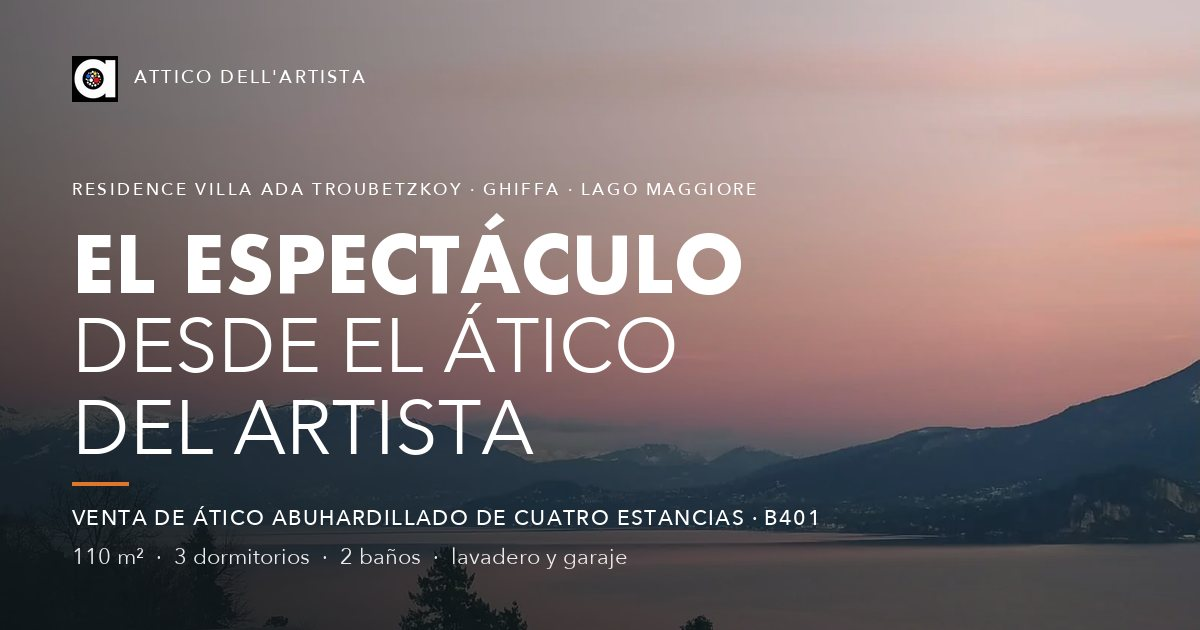
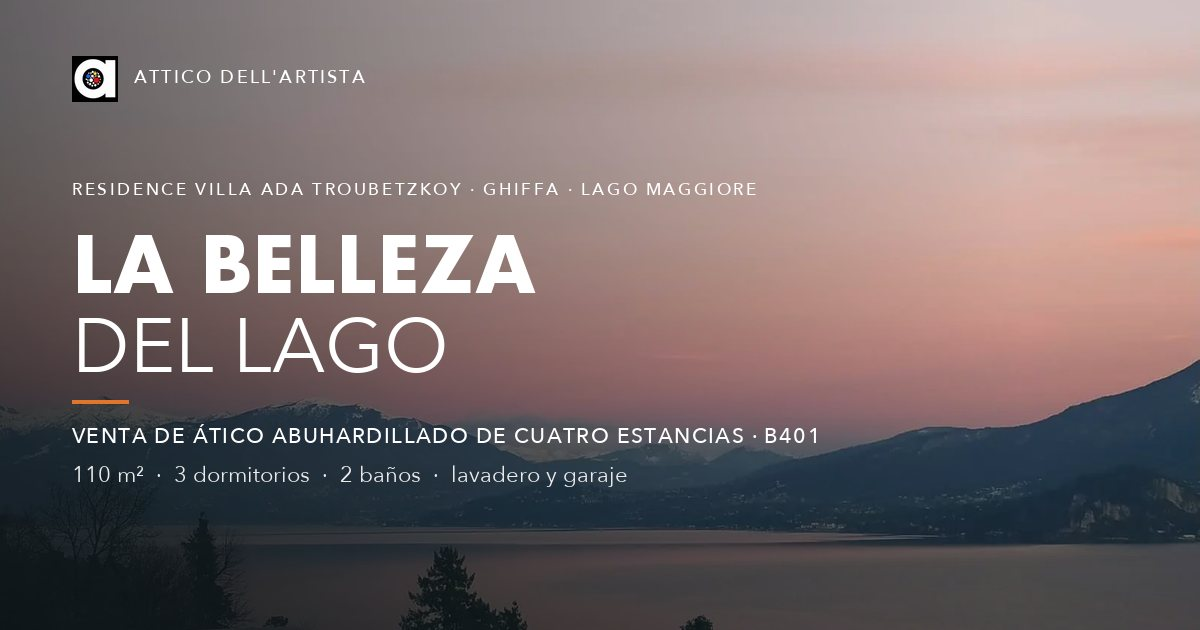
Correzioni testi: nuovo titolo, pianta numerata, ruolo Progettista, nota dell'architetto e testo su misura

diff --git a/de/index.html b/de/index.html
@@ -54,7 +54,7 @@
   <img class="hero-bg" src="../img/hero-960.webp" srcset="../img/hero-960.webp 960w, ../img/hero-1598.webp 1598w" sizes="100vw" width="1598" height="899" alt="Rosafarbene Morgendämmerung über dem Lago Maggiore, vom Penthouse aus gesehen" fetchpriority="high">
   <div class="hero-c wrap">
     <p class="kicker">Residence Villa Ada Troubetzkoy · Ghiffa · Lago Maggiore</p>
-    <h1><strong>Das Schauspiel</strong><br>vom Penthouse<br>der Künstlerin</h1>
+    <h1><strong>Die Schönheit</strong><br>des Sees</h1>
     <p class="hero-sub">Verkauf 4-Zimmer-Dachgeschosswohnung · B401<br><em>Ein Angebot von Anna Mazzola, Architektin</em></p>
     <div class="hero-cta"><a href="#contatti" class="btn">Private Besichtigung buchen</a><a href="#vista" class="btn btn-ghost">Das Haus entdecken</a></div>
   </div>
@@ -136,7 +136,7 @@
   </div>
 
   <div class="wrap split plan">
-    <figure><a href="../img/pianta-959.webp" class="lb" data-cap="Grundriss des Penthouse"><img src="../img/pianta-959.webp" srcset="../img/pianta-959.webp 959w" sizes="(max-width: 800px) 100vw, 60vw" width="959" height="720" alt="Grundriss des Penthouse" loading="lazy" decoding="async"></a></figure>
+    <figure><a href="../img/pianta-1088.webp" class="lb" data-cap="Grundriss des Penthouse"><img src="../img/pianta-640.webp" srcset="../img/pianta-640.webp 640w, ../img/pianta-1088.webp 1088w" sizes="(max-width: 800px) 100vw, 60vw" width="1088" height="680" alt="Grundriss des Penthouse" loading="lazy" decoding="async"></a></figure>
     <div>
       <h3 class="sub">Grundriss · 110 m²</h3>
       <ol class="legend"><li>Eingang, Wohnbereich, Küche</li><li>Wohnbereich mit Kamin und Essplatz</li><li>Schlafzimmer / Wohnzimmer</li><li>Schlafzimmer</li><li>Schlafzimmer</li><li>Office</li><li>Flur</li><li>Panorama-Loggia</li><li>Kleine Loggien</li></ol>
@@ -157,11 +157,11 @@
     <h2 class="h-lite">Die Architektin<br><strong>der Ideen</strong></h2>
     <p class="lead">Anna Mazzola · Architektin und Eigentümerin</p>
     <div class="trio roles">
-      <figure><img src="../img/anna-imprenditrice-615.webp" srcset="../img/anna-imprenditrice-615.webp 615w" sizes="(max-width: 700px) 100vw, 33vw" width="615" height="401" alt="Anna Mazzola · Unternehmerin" loading="lazy" decoding="async"><figcaption>Unternehmerin</figcaption></figure>
+      <figure><img src="../img/anna-imprenditrice-615.webp" srcset="../img/anna-imprenditrice-615.webp 615w" sizes="(max-width: 700px) 100vw, 33vw" width="615" height="401" alt="Anna Mazzola · Planerin" loading="lazy" decoding="async"><figcaption>Planerin</figcaption></figure>
       <figure><img src="../img/anna-direttrice-814.webp" srcset="../img/anna-direttrice-814.webp 814w" sizes="(max-width: 700px) 100vw, 33vw" width="814" height="448" alt="Anna Mazzola · Bauleiterin" loading="lazy" decoding="async"><figcaption>Bauleiterin</figcaption></figure>
       <figure><img src="../img/anna-artista-608.webp" srcset="../img/anna-artista-608.webp 608w" sizes="(max-width: 700px) 100vw, 33vw" width="608" height="396" alt="Anna Mazzola · Künstlerin" loading="lazy" decoding="async"><figcaption>Künstlerin</figcaption></figure>
     </div>
-    <blockquote>„Ich habe die Renovierungsarbeiten an diesem Gebäude persönlich betreut und geleitet und ihnen eine künstlerische Vision verliehen, die die Modernität von Sichtbeton mit der Weichheit lasierender Anstriche verbindet. Für die Fassaden gibt es eine innovative Methode: Eine professionelle Restauratorin begleitet das Gebäude über die Zeit und greift beim ersten Anzeichen von Feuchtigkeit oder Verschleiß ein. Ein unsichtbarer Wert – eine Garantie für Beständigkeit.“<cite>Anmerkung der Architektin</cite></blockquote>
+    <blockquote>„Ich habe die Renovierungsarbeiten an diesem Gebäude persönlich betreut und geleitet und dabei die ursprüngliche künstlerische Vision wieder aufgegriffen, die die Modernität von Sichtbeton mit der Weichheit lasierender Anstriche verbindet. Für die Sanierung der Fassaden habe ich eine ungewöhnliche, aber sehr wirksame Methode gewählt: <strong>die Restaurierung</strong>. Eine professionelle Restauratorin hat meisterhaft gearbeitet und wird das Gebäude von nun an begleiten und bei den ersten Anzeichen von Feuchtigkeit oder Verschleiß eingreifen. Ein unsichtbarer Wert – eine Garantie für Beständigkeit.“<cite>Anmerkung der Architektin</cite></blockquote>
   </div>
 </section>
 
@@ -169,7 +169,7 @@
   <div class="wrap">
     <p class="eyebrow">V · Nach Maß</p>
     <h2 class="h-lite">Der Raum<br><strong>nach Ihren Wünschen</strong></h2>
-    <p class="lead">Die Räume lassen sich je nach Bedarf neu interpretieren und neu gestalten – wie weiße Leinwände, bereit, zu neuem Leben zu erwachen, gemeinsam mit der Architektin, die dieses Haus und seine Umgebung seit mehr als zwanzig Jahren liebt und heute den Staffelstab weitergeben möchte, um neuen Träumen zu folgen.</p>
+    <p class="lead">Die Räume lassen sich je nach Bedarf neu interpretieren und neu gestalten – wie weiße Leinwände, bereit, gemeinsam mit der Architektin zu neuem Leben zu erwachen. Anna Mazzola hat dieses Haus und seine Umgebung immer geliebt und lebt dieses Gefühl heute weiter, indem sie den Staffelstab an jemanden übergibt, der jedes Detail zu schätzen weiß.</p>
     <p class="lead">Anna Mazzola verkauft nicht nur ein Domizil: Sie stellt dem Käufer ihr maßgeschneidertes Know-how zur Verfügung und begleitet ihn bei der vollständig individuellen Gestaltung der Räume.</p>
     <div class="trio styles">
       <figure><a href="../img/stile-classico-556.webp" class="lb" data-cap="Vorschlag: Klassischer Stil"><img src="../img/stile-classico-556.webp" srcset="../img/stile-classico-556.webp 556w" sizes="(max-width: 700px) 100vw, 33vw" width="556" height="268" alt="Vorschlag: Klassischer Stil" loading="lazy" decoding="async"></a><figcaption>Klassischer Stil</figcaption></figure><figure><a href="../img/stile-impero-555.webp" class="lb" data-cap="Vorschlag: Empire-Stil"><img src="../img/stile-impero-555.webp" srcset="../img/stile-impero-555.webp 555w" sizes="(max-width: 700px) 100vw, 33vw" width="555" height="268" alt="Vorschlag: Empire-Stil" loading="lazy" decoding="async"></a><figcaption>Empire-Stil</figcaption></figure><figure><a href="../img/stile-country-554.webp" class="lb" data-cap="Vorschlag: Landhausstil"><img src="../img/stile-country-554.webp" srcset="../img/stile-country-554.webp 554w" sizes="(max-width: 700px) 100vw, 33vw" width="554" height="268" alt="Vorschlag: Landhausstil" loading="lazy" decoding="async"></a><figcaption>Landhausstil</figcaption></figure>

diff --git a/fr/index.html b/fr/index.html
@@ -54,7 +54,7 @@
   <img class="hero-bg" src="../img/hero-960.webp" srcset="../img/hero-960.webp 960w, ../img/hero-1598.webp 1598w" sizes="100vw" width="1598" height="899" alt="Aube rose sur le lac Majeur vue depuis l&#x27;attique" fetchpriority="high">
   <div class="hero-c wrap">
     <p class="kicker">Residence Villa Ada Troubetzkoy · Ghiffa · lac Majeur</p>
-    <h1><strong>Le spectacle</strong><br>depuis l'attique<br>de l'artiste</h1>
+    <h1><strong>La beauté</strong><br>du lac</h1>
     <p class="hero-sub">À vendre · quatre pièces mansardé · B401<br><em>Une proposition signée Anna Mazzola, architecte</em></p>
     <div class="hero-cta"><a href="#contatti" class="btn">Réserver une visite privée</a><a href="#vista" class="btn btn-ghost">Découvrir la maison</a></div>
   </div>
@@ -136,7 +136,7 @@
   </div>
 
   <div class="wrap split plan">
-    <figure><a href="../img/pianta-959.webp" class="lb" data-cap="Plan de l&#x27;attique"><img src="../img/pianta-959.webp" srcset="../img/pianta-959.webp 959w" sizes="(max-width: 800px) 100vw, 60vw" width="959" height="720" alt="Plan de l&#x27;attique" loading="lazy" decoding="async"></a></figure>
+    <figure><a href="../img/pianta-1088.webp" class="lb" data-cap="Plan de l&#x27;attique"><img src="../img/pianta-640.webp" srcset="../img/pianta-640.webp 640w, ../img/pianta-1088.webp 1088w" sizes="(max-width: 800px) 100vw, 60vw" width="1088" height="680" alt="Plan de l&#x27;attique" loading="lazy" decoding="async"></a></figure>
     <div>
       <h3 class="sub">Plan · 110 m²</h3>
       <ol class="legend"><li>Entrée, séjour, cuisine</li><li>Séjour avec cheminée et salle à manger</li><li>Chambre / salon</li><li>Chambre</li><li>Chambre</li><li>Bureau</li><li>Couloir</li><li>Loggia panoramique</li><li>Petites loggias</li></ol>
@@ -157,11 +157,11 @@
     <h2 class="h-lite">L'architecte<br><strong>des idées</strong></h2>
     <p class="lead">Anna Mazzola · architecte et propriétaire</p>
     <div class="trio roles">
-      <figure><img src="../img/anna-imprenditrice-615.webp" srcset="../img/anna-imprenditrice-615.webp 615w" sizes="(max-width: 700px) 100vw, 33vw" width="615" height="401" alt="Anna Mazzola · Entrepreneure" loading="lazy" decoding="async"><figcaption>Entrepreneure</figcaption></figure>
+      <figure><img src="../img/anna-imprenditrice-615.webp" srcset="../img/anna-imprenditrice-615.webp 615w" sizes="(max-width: 700px) 100vw, 33vw" width="615" height="401" alt="Anna Mazzola · Conceptrice" loading="lazy" decoding="async"><figcaption>Conceptrice</figcaption></figure>
       <figure><img src="../img/anna-direttrice-814.webp" srcset="../img/anna-direttrice-814.webp 814w" sizes="(max-width: 700px) 100vw, 33vw" width="814" height="448" alt="Anna Mazzola · Maître d&#x27;œuvre" loading="lazy" decoding="async"><figcaption>Maître d'œuvre</figcaption></figure>
       <figure><img src="../img/anna-artista-608.webp" srcset="../img/anna-artista-608.webp 608w" sizes="(max-width: 700px) 100vw, 33vw" width="608" height="396" alt="Anna Mazzola · Artiste" loading="lazy" decoding="async"><figcaption>Artiste</figcaption></figure>
     </div>
-    <blockquote>« J'ai personnellement conçu et dirigé les travaux de rénovation de ce bâtiment, en lui insufflant une vision artistique qui allie la modernité du béton brut à la douceur d'une peinture à glacis. Pour les façades, une méthode innovante : une restauratrice professionnelle suit le bâtiment dans le temps et intervient au premier signe d'humidité ou d'usure. Une valeur invisible, gage de pérennité. »<cite>Note de l'architecte</cite></blockquote>
+    <blockquote>« J'ai personnellement suivi et dirigé les travaux de rénovation de ce bâtiment, en renouant avec la vision artistique d'origine qui allie la modernité du béton brut à la douceur d'une peinture à glacis. Pour la requalification des façades, j'ai choisi une méthode inhabituelle mais très efficace : <strong>la restauration</strong>. Une restauratrice professionnelle est intervenue avec maestria et suivra désormais le bâtiment dans le temps, en intervenant aux premiers signes d'humidité ou d'usure. Une valeur invisible, gage de pérennité. »<cite>Note de l'architecte</cite></blockquote>
   </div>
 </section>
 
@@ -169,7 +169,7 @@
   <div class="wrap">
     <p class="eyebrow">V · Sur mesure</p>
     <h2 class="h-lite">L'espace<br><strong>personnalisable</strong></h2>
-    <p class="lead">Les espaces peuvent être réinterprétés et repensés selon vos besoins, telles des toiles vierges prêtes à prendre une nouvelle vie aux côtés de l'architecte qui aime cette maison et son cadre depuis plus de vingt ans, et qui souhaite aujourd'hui passer le relais pour poursuivre de nouveaux rêves.</p>
+    <p class="lead">Les espaces peuvent être réinterprétés et repensés selon vos besoins, telles des toiles vierges prêtes à prendre une nouvelle vie aux côtés de l'architecte. Anna Mazzola a toujours aimé cette maison et son cadre, et aujourd'hui elle prolonge ce sentiment en passant le relais à qui saura en apprécier chaque détail.</p>
     <p class="lead">Anna Mazzola ne se contente pas de vendre une demeure : elle met à la disposition de l'acquéreur son savoir-faire sur mesure, pour l'accompagner dans la personnalisation complète des espaces.</p>
     <div class="trio styles">
       <figure><a href="../img/stile-classico-556.webp" class="lb" data-cap="Proposition: Style classique"><img src="../img/stile-classico-556.webp" srcset="../img/stile-classico-556.webp 556w" sizes="(max-width: 700px) 100vw, 33vw" width="556" height="268" alt="Proposition: Style classique" loading="lazy" decoding="async"></a><figcaption>Style classique</figcaption></figure><figure><a href="../img/stile-impero-555.webp" class="lb" data-cap="Proposition: Style Empire"><img src="../img/stile-impero-555.webp" srcset="../img/stile-impero-555.webp 555w" sizes="(max-width: 700px) 100vw, 33vw" width="555" height="268" alt="Proposition: Style Empire" loading="lazy" decoding="async"></a><figcaption>Style Empire</figcaption></figure><figure><a href="../img/stile-country-554.webp" class="lb" data-cap="Proposition: Style campagne"><img src="../img/stile-country-554.webp" srcset="../img/stile-country-554.webp 554w" sizes="(max-width: 700px) 100vw, 33vw" width="554" height="268" alt="Proposition: Style campagne" loading="lazy" decoding="async"></a><figcaption>Style campagne</figcaption></figure>

diff --git a/es/index.html b/es/index.html
@@ -54,7 +54,7 @@
   <img class="hero-bg" src="../img/hero-960.webp" srcset="../img/hero-960.webp 960w, ../img/hero-1598.webp 1598w" sizes="100vw" width="1598" height="899" alt="Amanecer rosado sobre el lago Maggiore visto desde el ático" fetchpriority="high">
   <div class="hero-c wrap">
     <p class="kicker">Residence Villa Ada Troubetzkoy · Ghiffa · lago Maggiore</p>
-    <h1><strong>El espectáculo</strong><br>desde el ático<br>del artista</h1>
+    <h1><strong>La belleza</strong><br>del lago</h1>
     <p class="hero-sub">Venta de ático abuhardillado de cuatro estancias · B401<br><em>Una propuesta firmada por Anna Mazzola, arquitecta</em></p>
     <div class="hero-cta"><a href="#contatti" class="btn">Reserve una visita privada</a><a href="#vista" class="btn btn-ghost">Descubra la casa</a></div>
   </div>
@@ -136,7 +136,7 @@
   </div>
 
   <div class="wrap split plan">
-    <figure><a href="../img/pianta-959.webp" class="lb" data-cap="Plano del ático"><img src="../img/pianta-959.webp" srcset="../img/pianta-959.webp 959w" sizes="(max-width: 800px) 100vw, 60vw" width="959" height="720" alt="Plano del ático" loading="lazy" decoding="async"></a></figure>
+    <figure><a href="../img/pianta-1088.webp" class="lb" data-cap="Plano del ático"><img src="../img/pianta-640.webp" srcset="../img/pianta-640.webp 640w, ../img/pianta-1088.webp 1088w" sizes="(max-width: 800px) 100vw, 60vw" width="1088" height="680" alt="Plano del ático" loading="lazy" decoding="async"></a></figure>
     <div>
       <h3 class="sub">Plano · 110 m²</h3>
       <ol class="legend"><li>Entrada, salón, cocina</li><li>Salón con chimenea y comedor</li><li>Dormitorio / sala de estar</li><li>Dormitorio</li><li>Dormitorio</li><li>Despacho</li><li>Pasillo</li><li>Logia panorámica</li><li>Pequeñas logias</li></ol>
@@ -157,11 +157,11 @@
     <h2 class="h-lite">La arquitecta<br><strong>de las ideas</strong></h2>
     <p class="lead">Anna Mazzola · arquitecta y propietaria</p>
     <div class="trio roles">
-      <figure><img src="../img/anna-imprenditrice-615.webp" srcset="../img/anna-imprenditrice-615.webp 615w" sizes="(max-width: 700px) 100vw, 33vw" width="615" height="401" alt="Anna Mazzola · Empresaria" loading="lazy" decoding="async"><figcaption>Empresaria</figcaption></figure>
+      <figure><img src="../img/anna-imprenditrice-615.webp" srcset="../img/anna-imprenditrice-615.webp 615w" sizes="(max-width: 700px) 100vw, 33vw" width="615" height="401" alt="Anna Mazzola · Proyectista" loading="lazy" decoding="async"><figcaption>Proyectista</figcaption></figure>
       <figure><img src="../img/anna-direttrice-814.webp" srcset="../img/anna-direttrice-814.webp 814w" sizes="(max-width: 700px) 100vw, 33vw" width="814" height="448" alt="Anna Mazzola · Directora de obra" loading="lazy" decoding="async"><figcaption>Directora de obra</figcaption></figure>
       <figure><img src="../img/anna-artista-608.webp" srcset="../img/anna-artista-608.webp 608w" sizes="(max-width: 700px) 100vw, 33vw" width="608" height="396" alt="Anna Mazzola · Artista" loading="lazy" decoding="async"><figcaption>Artista</figcaption></figure>
     </div>
-    <blockquote>« He supervisado y dirigido personalmente las obras de reforma de este edificio, imprimiéndoles una visión artística que une la contemporaneidad del hormigón visto con la suavidad de la pintura en veladura. Para las fachadas, un método innovador: una restauradora profesional acompaña al edificio en el tiempo e interviene ante la primera señal de humedad o desgaste. Un valor invisible, garantía de durabilidad. »<cite>Nota de la arquitecta</cite></blockquote>
+    <blockquote>« He supervisado y dirigido personalmente las obras de reforma de este edificio, recuperando la visión artística original que une la contemporaneidad del hormigón visto con la suavidad de la pintura en veladura. Para la rehabilitación de las fachadas he utilizado un método inusual, pero muy eficaz: <strong>la restauración</strong>. Una restauradora profesional intervino con maestría y a partir de ahora acompañará al edificio en el tiempo, interviniendo ante las primeras señales de humedad o desgaste. Un valor invisible, garantía de durabilidad. »<cite>Nota de la arquitecta</cite></blockquote>
   </div>
 </section>
 
@@ -169,7 +169,7 @@
   <div class="wrap">
     <p class="eyebrow">V · A medida</p>
     <h2 class="h-lite">El espacio<br><strong>personalizable</strong></h2>
-    <p class="lead">Los espacios pueden reinterpretarse y rediseñarse según las distintas necesidades, como lienzos en blanco listos para cobrar nueva vida junto a la arquitecta que ama esta casa y su entorno desde hace más de veinte años, y que hoy desea pasar el testigo para perseguir nuevos sueños.</p>
+    <p class="lead">Los espacios pueden reinterpretarse y rediseñarse según las distintas necesidades, como lienzos en blanco listos para cobrar nueva vida junto a la arquitecta. Anna Mazzola siempre ha amado esta casa y su entorno, y hoy sigue viviendo ese sentimiento al pasar el testigo a quien sepa apreciar cada detalle.</p>
     <p class="lead">Anna Mazzola no se limita a vender una residencia: pone a disposición del comprador su saber hacer artesanal, para acompañarle en la personalización total de los espacios.</p>
     <div class="trio styles">
       <figure><a href="../img/stile-classico-556.webp" class="lb" data-cap="Propuesta: Estilo clásico"><img src="../img/stile-classico-556.webp" srcset="../img/stile-classico-556.webp 556w" sizes="(max-width: 700px) 100vw, 33vw" width="556" height="268" alt="Propuesta: Estilo clásico" loading="lazy" decoding="async"></a><figcaption>Estilo clásico</figcaption></figure><figure><a href="../img/stile-impero-555.webp" class="lb" data-cap="Propuesta: Estilo imperio"><img src="../img/stile-impero-555.webp" srcset="../img/stile-impero-555.webp 555w" sizes="(max-width: 700px) 100vw, 33vw" width="555" height="268" alt="Propuesta: Estilo imperio" loading="lazy" decoding="async"></a><figcaption>Estilo imperio</figcaption></figure><figure><a href="../img/stile-country-554.webp" class="lb" data-cap="Propuesta: Estilo rústico"><img src="../img/stile-country-554.webp" srcset="../img/stile-country-554.webp 554w" sizes="(max-width: 700px) 100vw, 33vw" width="554" height="268" alt="Propuesta: Estilo rústico" loading="lazy" decoding="async"></a><figcaption>Estilo rústico</figcaption></figure>

diff --git a/en/index.html b/en/index.html
@@ -54,7 +54,7 @@
   <img class="hero-bg" src="../img/hero-960.webp" srcset="../img/hero-960.webp 960w, ../img/hero-1598.webp 1598w" sizes="100vw" width="1598" height="899" alt="Pink dawn over Lake Maggiore seen from the penthouse" fetchpriority="high">
   <div class="hero-c wrap">
     <p class="kicker">Residence Villa Ada Troubetzkoy · Ghiffa · Lake Maggiore</p>
-    <h1><strong>The spectacle</strong><br>from the artist's<br>penthouse</h1>
+    <h1><strong>The beauty</strong><br>of the lake</h1>
     <p class="hero-sub">Four-room top-floor penthouse for sale · B401<br><em>Presented by Anna Mazzola, architect</em></p>
     <div class="hero-cta"><a href="#contatti" class="btn">Book a private viewing</a><a href="#vista" class="btn btn-ghost">Discover the home</a></div>
   </div>
@@ -136,7 +136,7 @@
   </div>
 
   <div class="wrap split plan">
-    <figure><a href="../img/pianta-959.webp" class="lb" data-cap="Floor plan of the penthouse"><img src="../img/pianta-959.webp" srcset="../img/pianta-959.webp 959w" sizes="(max-width: 800px) 100vw, 60vw" width="959" height="720" alt="Floor plan of the penthouse" loading="lazy" decoding="async"></a></figure>
+    <figure><a href="../img/pianta-1088.webp" class="lb" data-cap="Floor plan of the penthouse"><img src="../img/pianta-640.webp" srcset="../img/pianta-640.webp 640w, ../img/pianta-1088.webp 1088w" sizes="(max-width: 800px) 100vw, 60vw" width="1088" height="680" alt="Floor plan of the penthouse" loading="lazy" decoding="async"></a></figure>
     <div>
       <h3 class="sub">Floor plan · 110 m²</h3>
       <ol class="legend"><li>Entrance, living room, kitchen</li><li>Living room with fireplace and dining area</li><li>Bedroom / sitting room</li><li>Bedroom</li><li>Bedroom</li><li>Office</li><li>Hallway</li><li>Panoramic loggia</li><li>Small loggias</li></ol>
@@ -157,11 +157,11 @@
     <h2 class="h-lite">The architect<br><strong>of ideas</strong></h2>
     <p class="lead">Anna Mazzola · architect and owner</p>
     <div class="trio roles">
-      <figure><img src="../img/anna-imprenditrice-615.webp" srcset="../img/anna-imprenditrice-615.webp 615w" sizes="(max-width: 700px) 100vw, 33vw" width="615" height="401" alt="Anna Mazzola · Entrepreneur" loading="lazy" decoding="async"><figcaption>Entrepreneur</figcaption></figure>
+      <figure><img src="../img/anna-imprenditrice-615.webp" srcset="../img/anna-imprenditrice-615.webp 615w" sizes="(max-width: 700px) 100vw, 33vw" width="615" height="401" alt="Anna Mazzola · Designer" loading="lazy" decoding="async"><figcaption>Designer</figcaption></figure>
       <figure><img src="../img/anna-direttrice-814.webp" srcset="../img/anna-direttrice-814.webp 814w" sizes="(max-width: 700px) 100vw, 33vw" width="814" height="448" alt="Anna Mazzola · Site manager" loading="lazy" decoding="async"><figcaption>Site manager</figcaption></figure>
       <figure><img src="../img/anna-artista-608.webp" srcset="../img/anna-artista-608.webp 608w" sizes="(max-width: 700px) 100vw, 33vw" width="608" height="396" alt="Anna Mazzola · Artist" loading="lazy" decoding="async"><figcaption>Artist</figcaption></figure>
     </div>
-    <blockquote>“I personally oversaw and directed the renovation of this building, infusing it with an artistic vision that pairs the contemporary feel of exposed concrete with the softness of glazed paint finishes. For the façades, an innovative approach: a professional restorer looks after the building over time, stepping in at the first sign of damp or wear. An invisible asset, and a guarantee of longevity.”<cite>A note from the architect</cite></blockquote>
+    <blockquote>“I personally oversaw and directed the renovation of this building, reviving the original artistic vision that pairs the contemporary feel of exposed concrete with the softness of glazed paint finishes. To renew the façades I chose an unusual but highly effective method: <strong>restoration</strong>. A professional restorer carried out the work with great skill and will now look after the building over time, stepping in at the first signs of damp or wear. An invisible asset, and a guarantee of longevity.”<cite>A note from the architect</cite></blockquote>
   </div>
 </section>
 
@@ -169,7 +169,7 @@
   <div class="wrap">
     <p class="eyebrow">V · Made to measure</p>
     <h2 class="h-lite">A space<br><strong>to make your own</strong></h2>
-    <p class="lead">The spaces can be reinterpreted and redesigned to suit different needs, like blank canvases ready to come to life anew alongside the architect who has loved this home and its setting for more than twenty years, and who now wishes to pass the baton to pursue new dreams.</p>
+    <p class="lead">The spaces can be reinterpreted and redesigned to suit different needs, like blank canvases ready to come to life anew alongside the architect. Anna Mazzola has always loved this home and its setting, and today she carries that feeling forward by passing the baton to someone who will appreciate its every detail.</p>
     <p class="lead">Anna Mazzola is not simply selling a home: she offers the buyer her bespoke expertise, guiding them through the complete personalisation of the spaces.</p>
     <div class="trio styles">
       <figure><a href="../img/stile-classico-556.webp" class="lb" data-cap="Proposal: Classic style"><img src="../img/stile-classico-556.webp" srcset="../img/stile-classico-556.webp 556w" sizes="(max-width: 700px) 100vw, 33vw" width="556" height="268" alt="Proposal: Classic style" loading="lazy" decoding="async"></a><figcaption>Classic style</figcaption></figure><figure><a href="../img/stile-impero-555.webp" class="lb" data-cap="Proposal: Empire style"><img src="../img/stile-impero-555.webp" srcset="../img/stile-impero-555.webp 555w" sizes="(max-width: 700px) 100vw, 33vw" width="555" height="268" alt="Proposal: Empire style" loading="lazy" decoding="async"></a><figcaption>Empire style</figcaption></figure><figure><a href="../img/stile-country-554.webp" class="lb" data-cap="Proposal: Country style"><img src="../img/stile-country-554.webp" srcset="../img/stile-country-554.webp 554w" sizes="(max-width: 700px) 100vw, 33vw" width="554" height="268" alt="Proposal: Country style" loading="lazy" decoding="async"></a><figcaption>Country style</figcaption></figure>

diff --git a/index.html b/index.html
@@ -54,7 +54,7 @@
   <img class="hero-bg" src="img/hero-960.webp" srcset="img/hero-960.webp 960w, img/hero-1598.webp 1598w" sizes="100vw" width="1598" height="899" alt="Alba rosa sul Lago Maggiore vista dall&#x27;attico" fetchpriority="high">
   <div class="hero-c wrap">
     <p class="kicker">Residence Villa Ada Troubetzkoy · Ghiffa · Lago Maggiore</p>
-    <h1><strong>Lo spettacolo</strong><br>dall'attico<br>dell'artista</h1>
+    <h1><strong>La bellezza</strong><br>del lago</h1>
     <p class="hero-sub">Vendita quadrilocale mansardato · B401<br><em>Una proposta firmata Anna Mazzola, architetto</em></p>
     <div class="hero-cta"><a href="#contatti" class="btn">Prenota una visita privata</a><a href="#vista" class="btn btn-ghost">Scopri la casa</a></div>
   </div>
@@ -136,7 +136,7 @@
   </div>
 
   <div class="wrap split plan">
-    <figure><a href="img/pianta-959.webp" class="lb" data-cap="Pianta dell&#x27;attico"><img src="img/pianta-959.webp" srcset="img/pianta-959.webp 959w" sizes="(max-width: 800px) 100vw, 60vw" width="959" height="720" alt="Pianta dell&#x27;attico" loading="lazy" decoding="async"></a></figure>
+    <figure><a href="img/pianta-1088.webp" class="lb" data-cap="Pianta dell&#x27;attico"><img src="img/pianta-640.webp" srcset="img/pianta-640.webp 640w, img/pianta-1088.webp 1088w" sizes="(max-width: 800px) 100vw, 60vw" width="1088" height="680" alt="Pianta dell&#x27;attico" loading="lazy" decoding="async"></a></figure>
     <div>
       <h3 class="sub">Pianta · 110 m²</h3>
       <ol class="legend"><li>Ingresso, living, cucina</li><li>Living con camino e pranzo</li><li>Camera / soggiorno</li><li>Camera da letto</li><li>Camera da letto</li><li>Office</li><li>Corridoio</li><li>Loggia panoramica</li><li>Piccole logge</li></ol>
@@ -157,11 +157,11 @@
     <h2 class="h-lite">L'architetto<br><strong>delle idee</strong></h2>
     <p class="lead">Anna Mazzola · architetto e proprietaria</p>
     <div class="trio roles">
-      <figure><img src="img/anna-imprenditrice-615.webp" srcset="img/anna-imprenditrice-615.webp 615w" sizes="(max-width: 700px) 100vw, 33vw" width="615" height="401" alt="Anna Mazzola · Imprenditrice" loading="lazy" decoding="async"><figcaption>Imprenditrice</figcaption></figure>
+      <figure><img src="img/anna-imprenditrice-615.webp" srcset="img/anna-imprenditrice-615.webp 615w" sizes="(max-width: 700px) 100vw, 33vw" width="615" height="401" alt="Anna Mazzola · Progettista" loading="lazy" decoding="async"><figcaption>Progettista</figcaption></figure>
       <figure><img src="img/anna-direttrice-814.webp" srcset="img/anna-direttrice-814.webp 814w" sizes="(max-width: 700px) 100vw, 33vw" width="814" height="448" alt="Anna Mazzola · Direttore lavori" loading="lazy" decoding="async"><figcaption>Direttore lavori</figcaption></figure>
       <figure><img src="img/anna-artista-608.webp" srcset="img/anna-artista-608.webp 608w" sizes="(max-width: 700px) 100vw, 33vw" width="608" height="396" alt="Anna Mazzola · Artista" loading="lazy" decoding="async"><figcaption>Artista</figcaption></figure>
     </div>
-    <blockquote>«Ho curato e diretto personalmente i lavori di ristrutturazione di questo edificio, infondendovi una visione artistica che unisce la contemporaneità del cemento a vista alla morbidezza della tinteggiatura a velatura. Per le facciate, un metodo innovativo: una restauratrice professionista segue l'edificio nel tempo e interviene al primo segnale di umidità o usura. Un valore invisibile, garanzia di durata.»<cite>Nota dell'architetto</cite></blockquote>
+    <blockquote>«Ho curato e diretto personalmente i lavori di ristrutturazione di questo edificio, riproponendo la visione artistica originaria che unisce la contemporaneità del cemento a vista alla morbidezza della tinteggiatura a velatura. Per la riqualificazione delle facciate ho utilizzato un metodo inusuale, ma molto efficace: <strong>il restauro</strong>. Una professionista restauratrice è intervenuta con maestria e da ora seguirà l'edificio nel tempo, intervenendo ai primi segnali di umidità o usura. Un valore invisibile, garanzia di durata.»<cite>Nota dell'architetto</cite></blockquote>
   </div>
 </section>
 
@@ -169,7 +169,7 @@
   <div class="wrap">
     <p class="eyebrow">V · Su misura</p>
     <h2 class="h-lite">Lo spazio<br><strong>personalizzabile</strong></h2>
-    <p class="lead">Gli spazi possono essere reinterpretati e riprogettati in base alle diverse esigenze, come tele bianche pronte a prendere nuova vita insieme all'architetto che ama questa casa e il suo contesto da più di vent'anni, e che oggi desidera passare il testimone per inseguire nuovi sogni.</p>
+    <p class="lead">Gli spazi possono essere reinterpretati e riprogettati in base alle diverse esigenze, come tele bianche pronte a prendere nuova vita insieme all'architetto. Anna Mazzola ha sempre amato questa casa ed il suo contesto, e oggi continua a vivere il suo sentimento passando il testimone a chi saprà apprezzarne ogni dettaglio.</p>
     <p class="lead">Anna Mazzola non si limita a vendere una dimora: mette a disposizione dell'acquirente la propria competenza sartoriale, per affiancarlo nella totale personalizzazione degli spazi.</p>
     <div class="trio styles">
       <figure><a href="img/stile-classico-556.webp" class="lb" data-cap="Proposta: Stile classico"><img src="img/stile-classico-556.webp" srcset="img/stile-classico-556.webp 556w" sizes="(max-width: 700px) 100vw, 33vw" width="556" height="268" alt="Proposta: Stile classico" loading="lazy" decoding="async"></a><figcaption>Stile classico</figcaption></figure><figure><a href="img/stile-impero-555.webp" class="lb" data-cap="Proposta: Stile impero"><img src="img/stile-impero-555.webp" srcset="img/stile-impero-555.webp 555w" sizes="(max-width: 700px) 100vw, 33vw" width="555" height="268" alt="Proposta: Stile impero" loading="lazy" decoding="async"></a><figcaption>Stile impero</figcaption></figure><figure><a href="img/stile-country-554.webp" class="lb" data-cap="Proposta: Stile country"><img src="img/stile-country-554.webp" srcset="img/stile-country-554.webp 554w" sizes="(max-width: 700px) 100vw, 33vw" width="554" height="268" alt="Proposta: Stile country" loading="lazy" decoding="async"></a><figcaption>Stile country</figcaption></figure>

diff --git a/_src/locandina/locandina.html b/_src/locandina/locandina.html
@@ -73,7 +73,7 @@ p{margin:0 0 2.5mm}
     <div class="tag">In vendita</div></div>
     <div class="hero-txt">
       <div class="kicker">Residence Villa Ada Troubetzkoy · Ghiffa · Lago Maggiore</div>
-      <h1><strong>Lo spettacolo</strong><br>dall'attico<br>dell'artista</h1>
+      <h1><strong>La bellezza</strong><br>del lago</h1>
       <div class="bar"></div>
       <div class="sub">Vendita quadrilocale mansardato · B401</div>
     </div>
